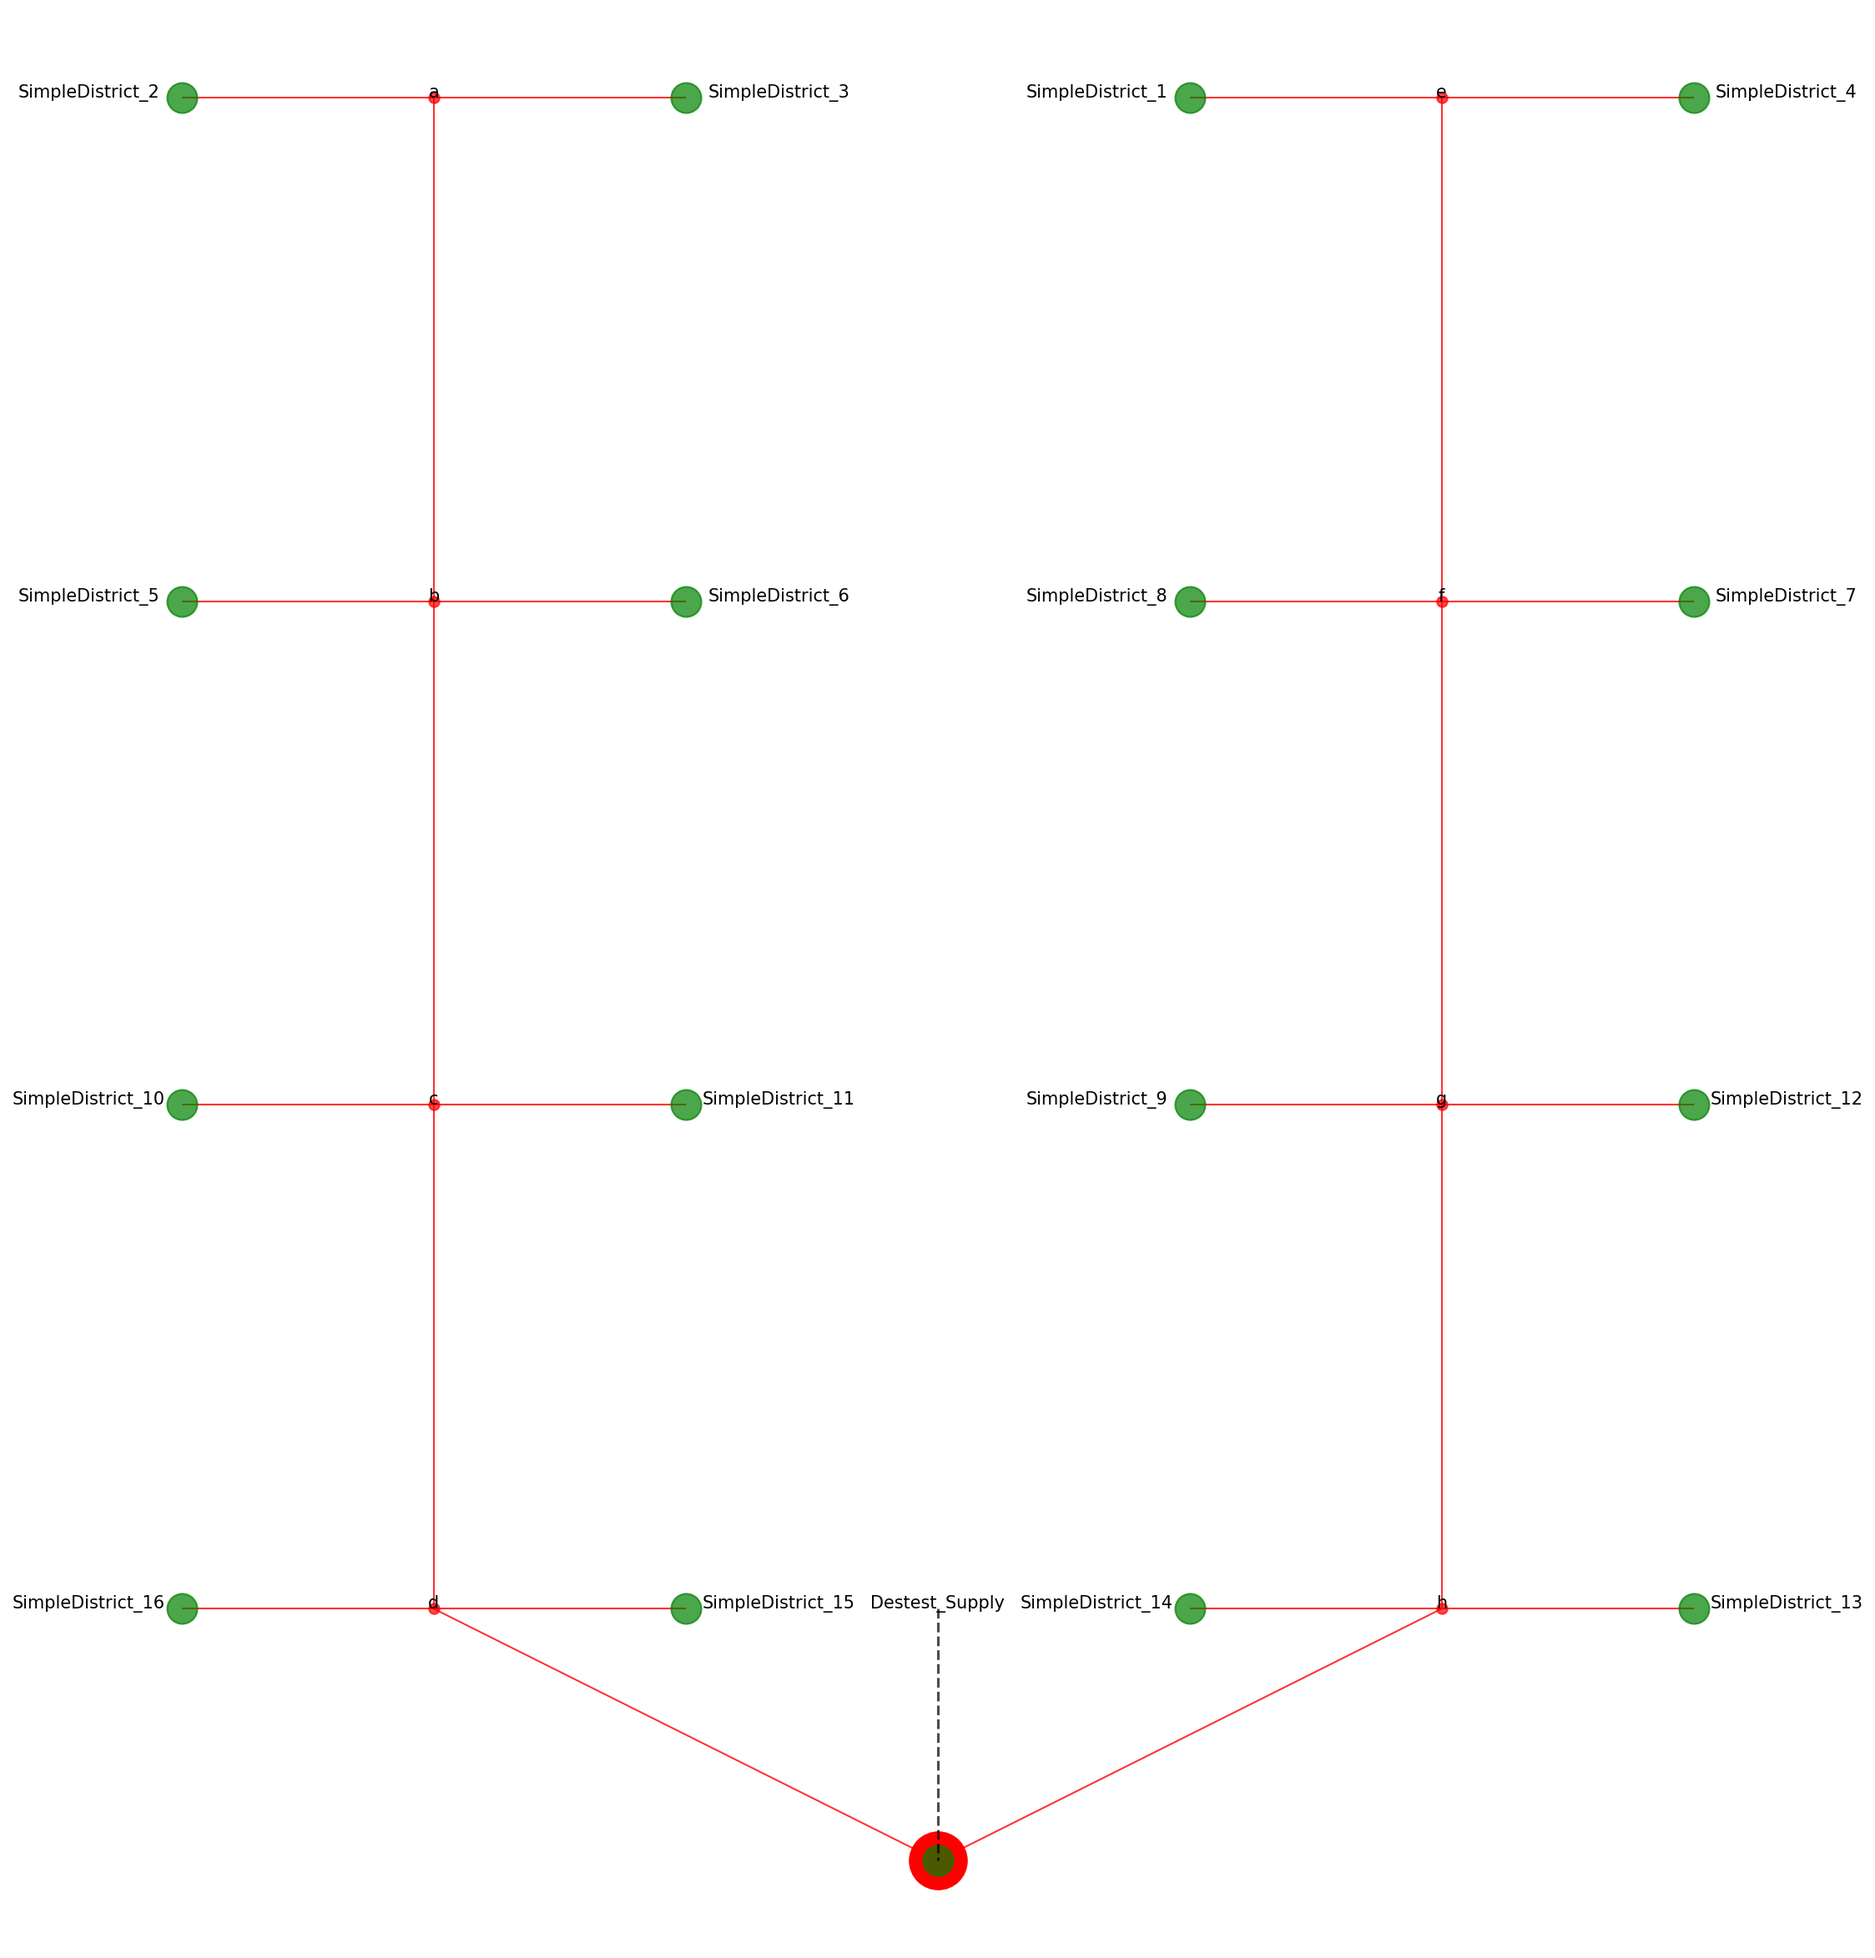
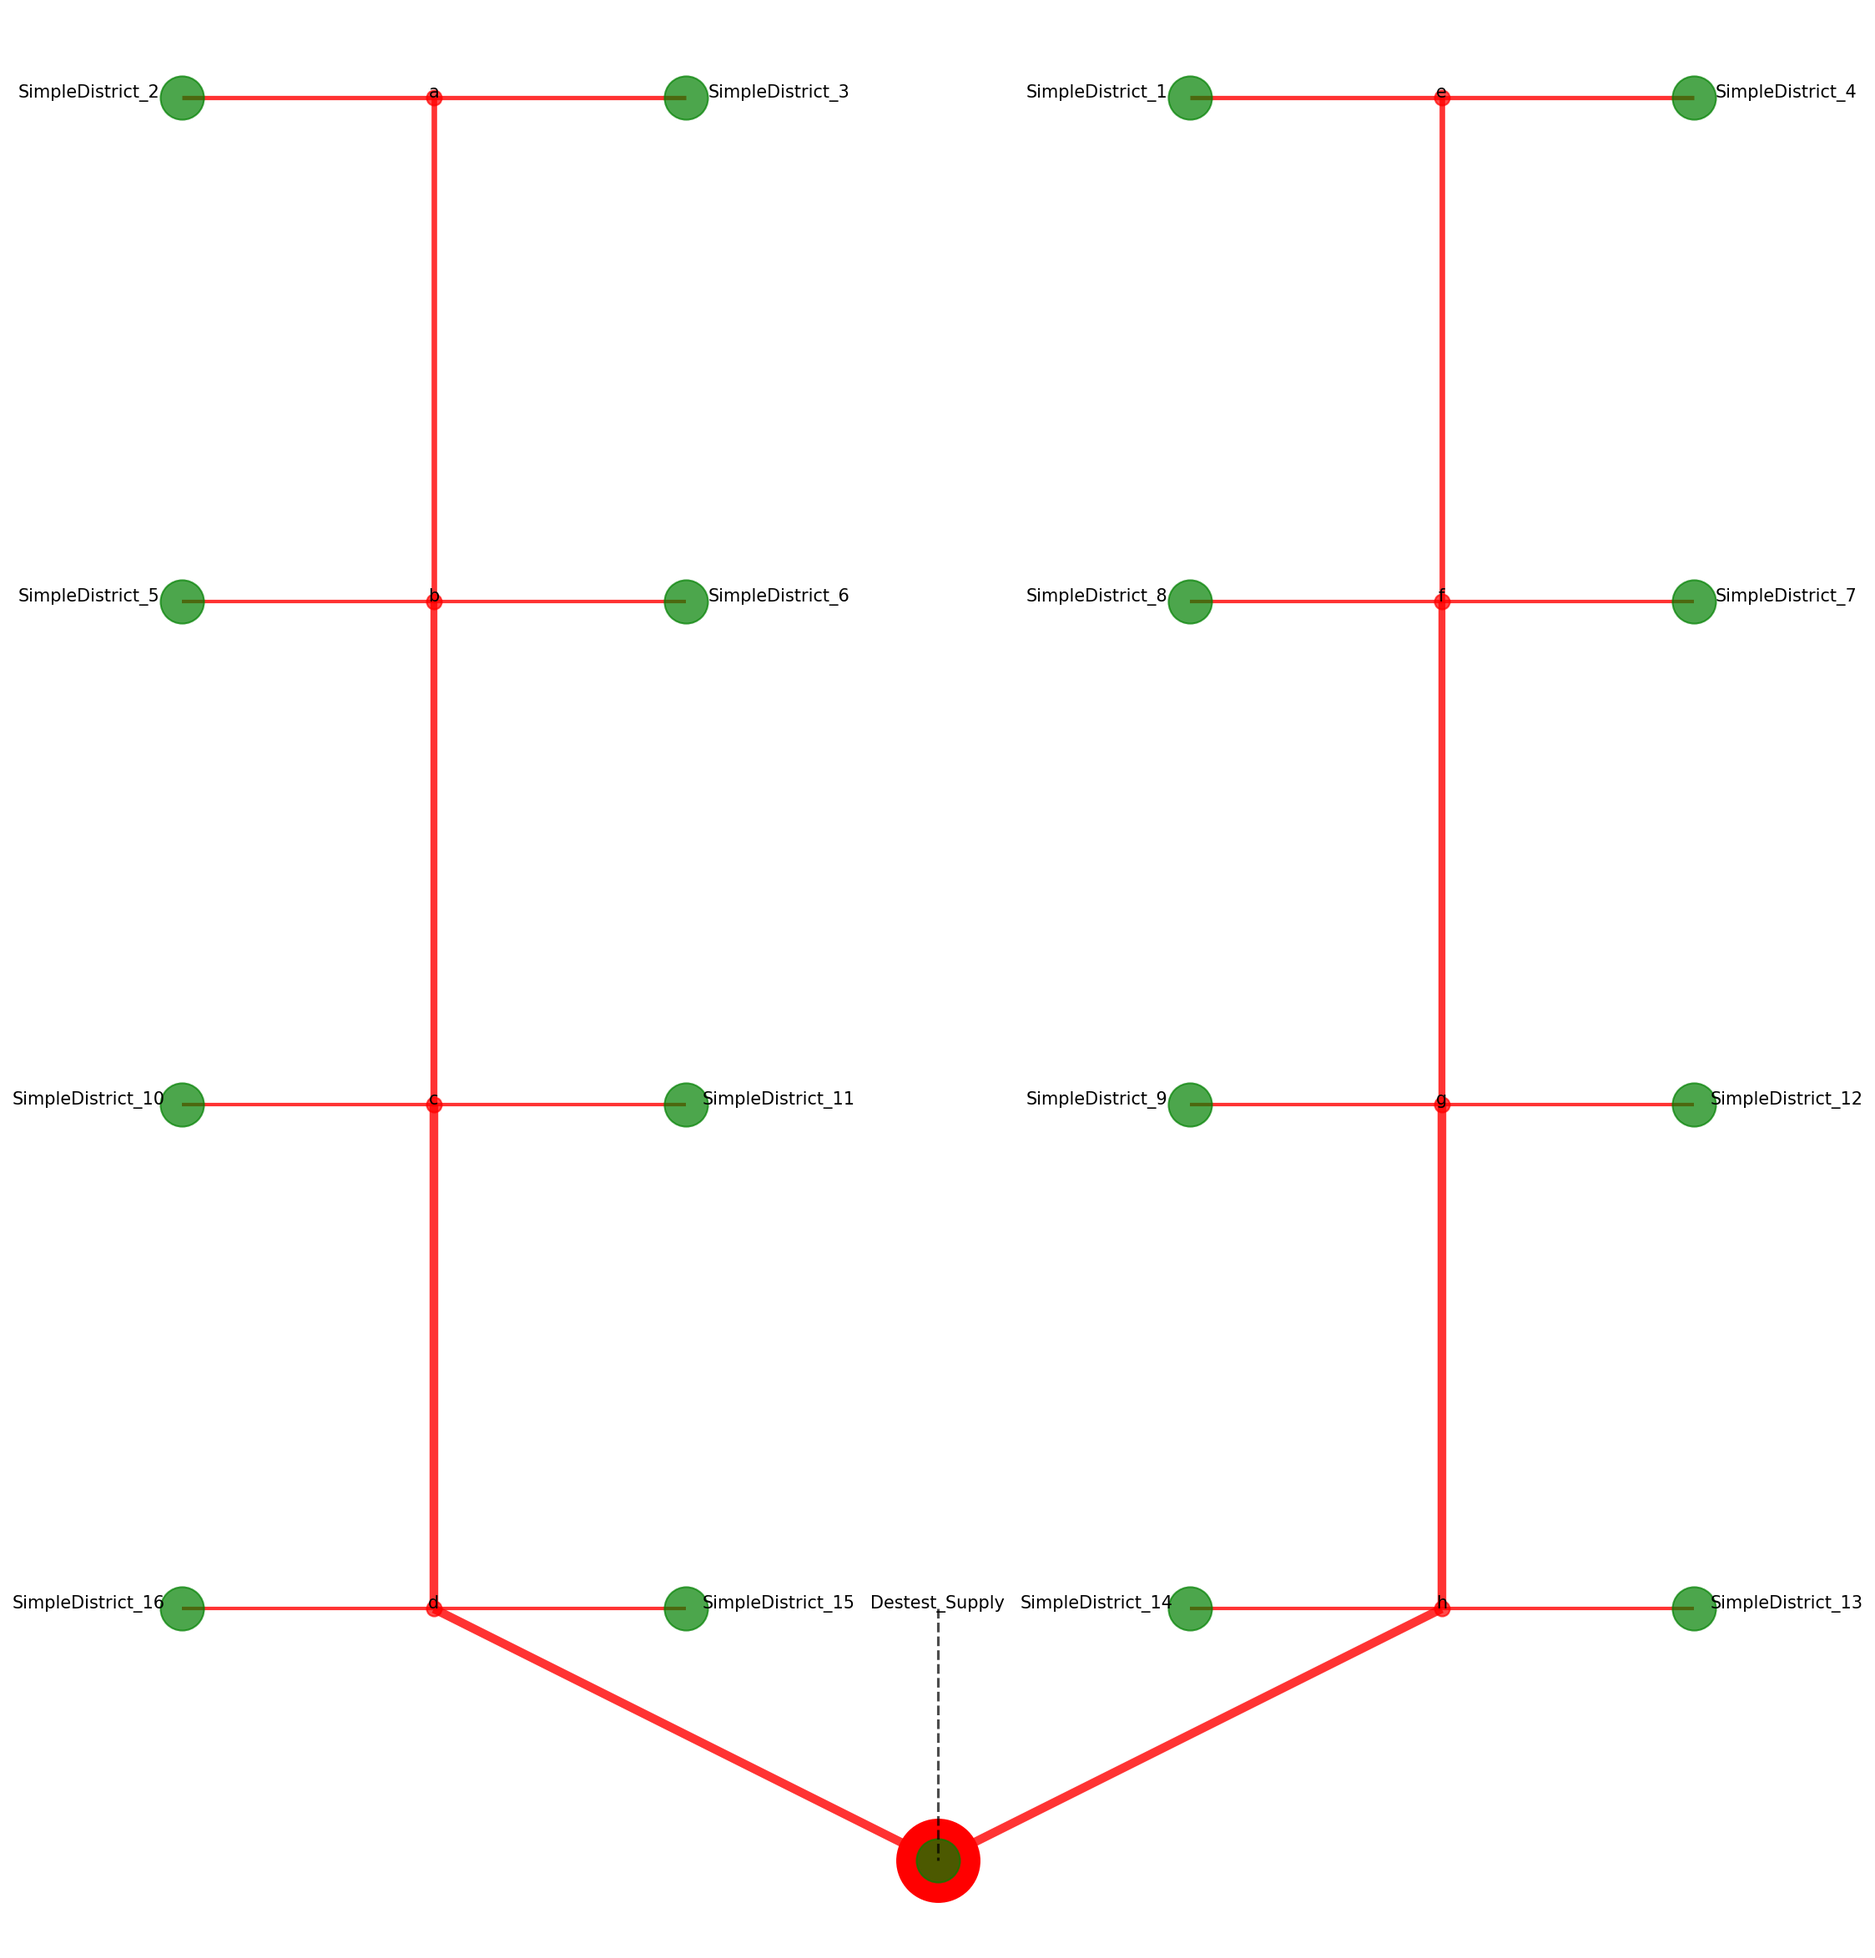
added diameters and length

diff --git a/wp_3_2_destest/Network/NetworkSizing/destest_uesgraphs.py b/wp_3_2_destest/Network/NetworkSizing/destest_uesgraphs.py
@@ -16,7 +16,13 @@ def main():
         'https://raw.githubusercontent.com/ibpsa/project1/master/'
         'wp_3_2_destest/Network/NetworkSizing/Node%20data.csv', sep=',')
 
+    pipe_data = pd.read_csv(
+        'https://raw.githubusercontent.com/ibpsa/project1/master/'
+        'wp_3_2_destest/Network/NetworkSizing/Pipe%20data.csv', sep=',')
+
     node_data = node_data.set_index('Node')
+
+    pipe_data = pipe_data.replace(to_replace='i', value='Destest_Supply')
 
     simple_district = ug.UESGraph()
     supply_heating_1 = simple_district.add_building(
@@ -54,12 +60,25 @@ def main():
                 simple_district.nodes_by_name[key],
                 simple_district.nodes_by_name[value])
 
+    for index, row in pipe_data.iterrows():
+        simple_district.edges[
+            simple_district.nodes_by_name[row['Beginning Node']],
+            simple_district.nodes_by_name[row['Ending Node']]][
+                'diameter'] =\
+                    row['Inner Diameter [m]']
+        simple_district.edges[
+            simple_district.nodes_by_name[row['Beginning Node']],
+            simple_district.nodes_by_name[row['Ending Node']]]['length'] =\
+                row['Length [m]']
+
     vis = ug.Visuals(simple_district)
     vis.show_network(
         save_as="uesgraph_destest.png",
-        scaling_factor=12,
+        show_diameters=True,
+        scaling_factor=25,
         labels="name",
-        label_size=10
+        label_size=10,
+        scaling_factor_diameter=100
     )
 
 
